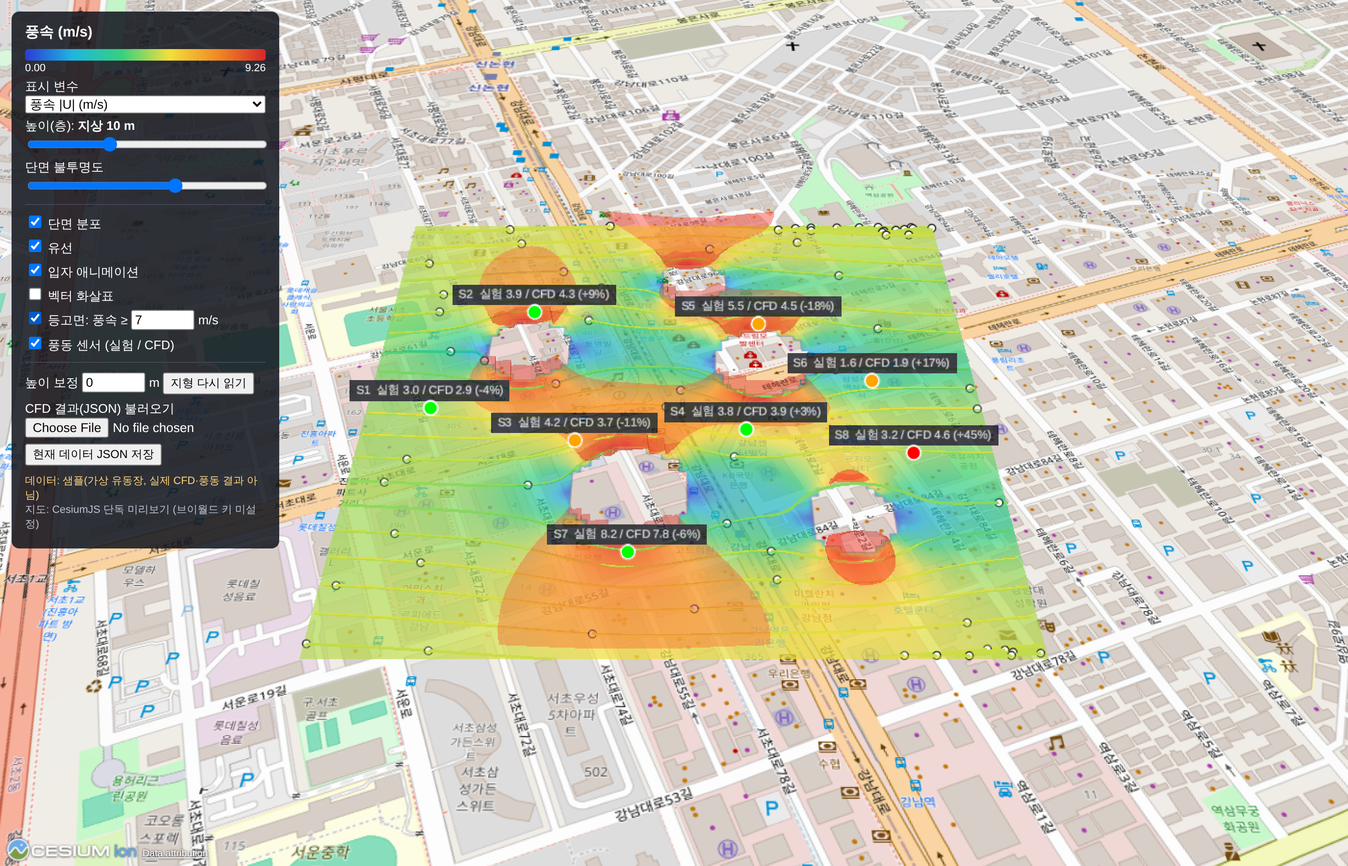
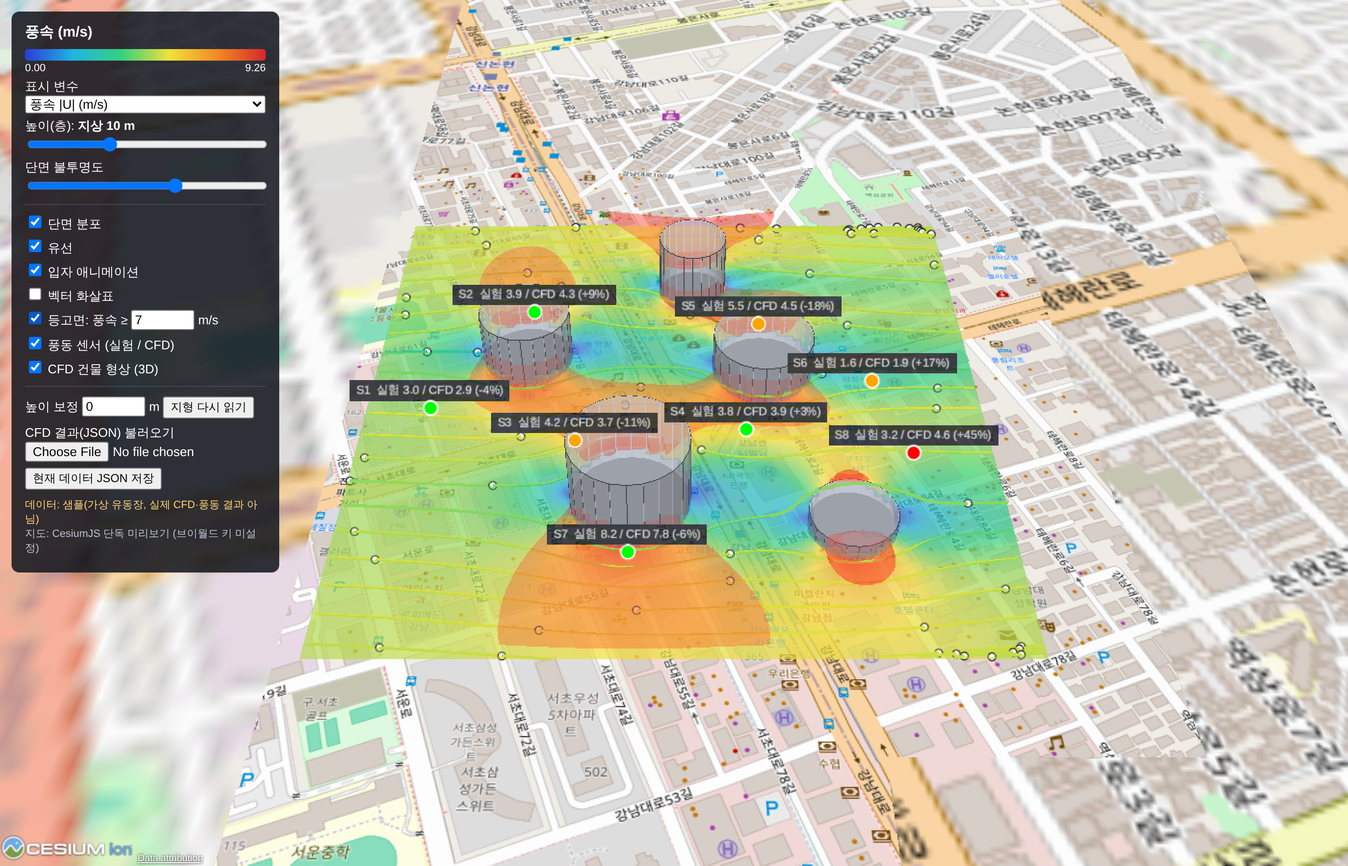
Draw CFD building footprints as 3D extrusions in the viewer
The JSON format gains an optional buildings list, and the sample field
now registers its virtual obstacles so the demo shows 3D buildings.

Claude-Session: https://claude.ai/code/session_013Wc2iwfqpLmSagBczk5rKv

diff --git a/vworld_cfd/README.md b/vworld_cfd/README.md
@@ -36,6 +36,7 @@ python -m http.server 8000
 | 벡터 화살표 | 약 25 m 간격, 길이는 풍속에 비례 | U |
 | 등고면 | 풍속이 입력값 이상인 영역의 경계면 (2층 이상 데이터 필요) | U |
 | 풍동 센서 | 측정값과 같은 위치의 CFD 풍속 비교. 오차 10 % 이내 녹색, 25 % 이내 주황, 초과 빨강 | U |
+| CFD 건물 형상 | JSON 의 `buildings`(바닥 외곽선 + 높이)를 3D 기둥으로 표시. 브이월드 실제 건물과 겹치면 끄면 됨 | – |
 | 높이 보정 / 지형 다시 읽기 | 결과가 땅에 묻히거나 떠 보일 때 사용 | – |
 
 파생 변수 정의: 풍속비 = |U| / U_ref, σ = √(2k/3), 난류 강도 = σ / |U|, 돌풍 풍속 = |U| + 3.5σ, Cp = (p − p_ref) / (½ U_ref²).
@@ -50,7 +51,8 @@ python -m http.server 8000
   "u":[..], "v":[..], "w":[..],                     m/s, 동/북/위. 길이 nx*ny*nz
   "k":[..],                                         (선택) 난류 운동에너지
   "p":[..], "p_ref":0, "p_unit":"kinematic",        (선택) 압력. kinematic = p/ρ, 또는 "Pa"
-  "sensors":[{"name":"S1","lon":..,"lat":..,"z":1.5,"measured":4.2}] }
+  "sensors":[{"name":"S1","lon":..,"lat":..,"z":1.5,"measured":4.2}],
+  "buildings":[{"polygon":[[lon,lat],...],"height":60}] }      (선택) CFD 건물 바닥 외곽선과 높이
 ```
 
 배열 순서는 층(아래→위) → 행(남→북) → 열(서→동) 이며 `index = (kz*ny + j)*nx + i` 입니다.
